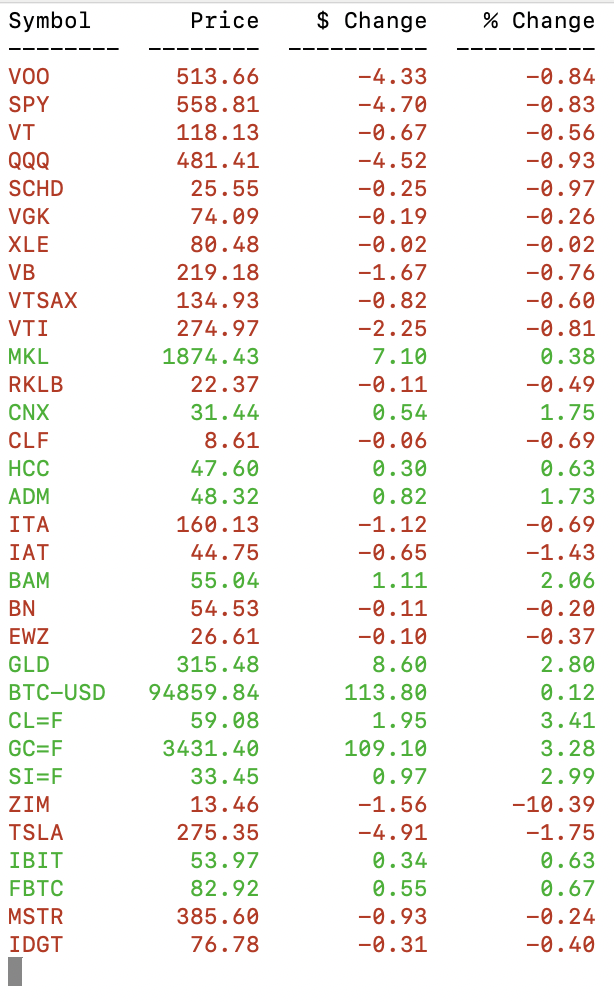
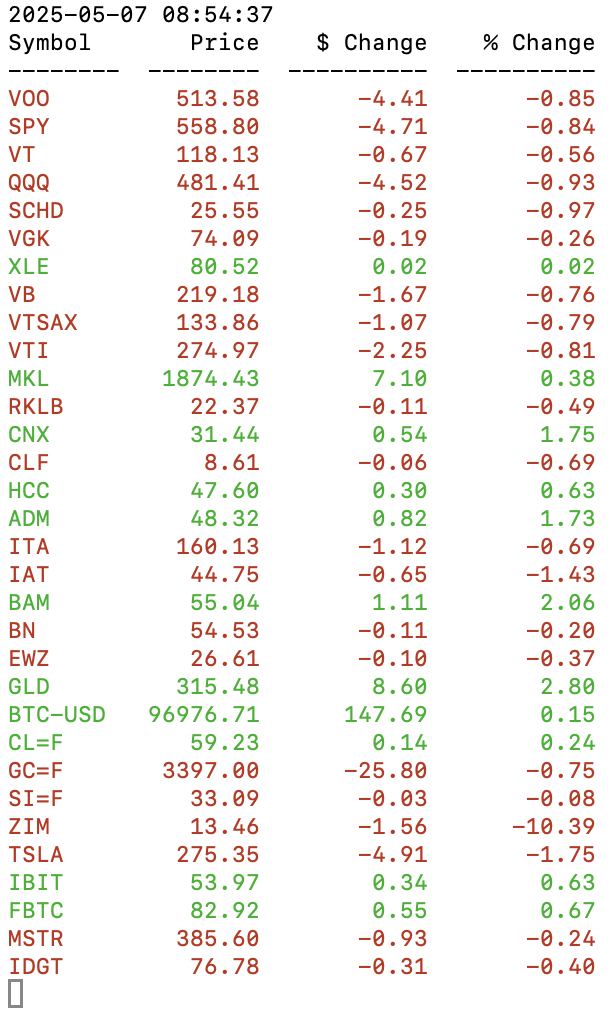
Add date and time

Changed region(s): [[0.0, 0.0, 0.4642, 0.99], [0.4951, 0.0, 0.7117, 0.9591], [0.7736, 0.0, 0.9902, 0.9591]]

diff --git a/portfolio.py b/portfolio.py
@@ -1,10 +1,16 @@
 import yfinance as yf
 from tabulate import tabulate
 from simple_colors import red, green
+from datetime import datetime
 
 SYMBOLS = ["VOO", "SPY", "VT", "QQQ", "SCHD", "VGK", "XLE", "VB", "VTSAX", "VTI", "MKL", "RKLB", "CNX", "CLF", "HCC", "ADM", "ITA", "IAT", "BAM", "BN", "EWZ", "GLD", "BTC-USD", "CL=F", "GC=F", "SI=F", "ZIM", "TSLA", "IBIT", "FBTC", "MSTR", "IDGT"]
 
 HEADERS=['Symbol', 'Price', '$ Change', '% Change']
+
+
+def get_current_date_and_time():
+  return datetime.now().strftime('%Y-%m-%d %H:%M:%S')
+
 
 def round_to_two_decimals(number):
   """Rounds a number to two decimal places and returns a string representation,
@@ -29,4 +35,5 @@ for sym in SYMBOLS:
     rows.append(row)
 
 
+print(get_current_date_and_time())
 print(tabulate(rows, HEADERS, disable_numparse=True, colalign=("left", "right", "right", "right")))
